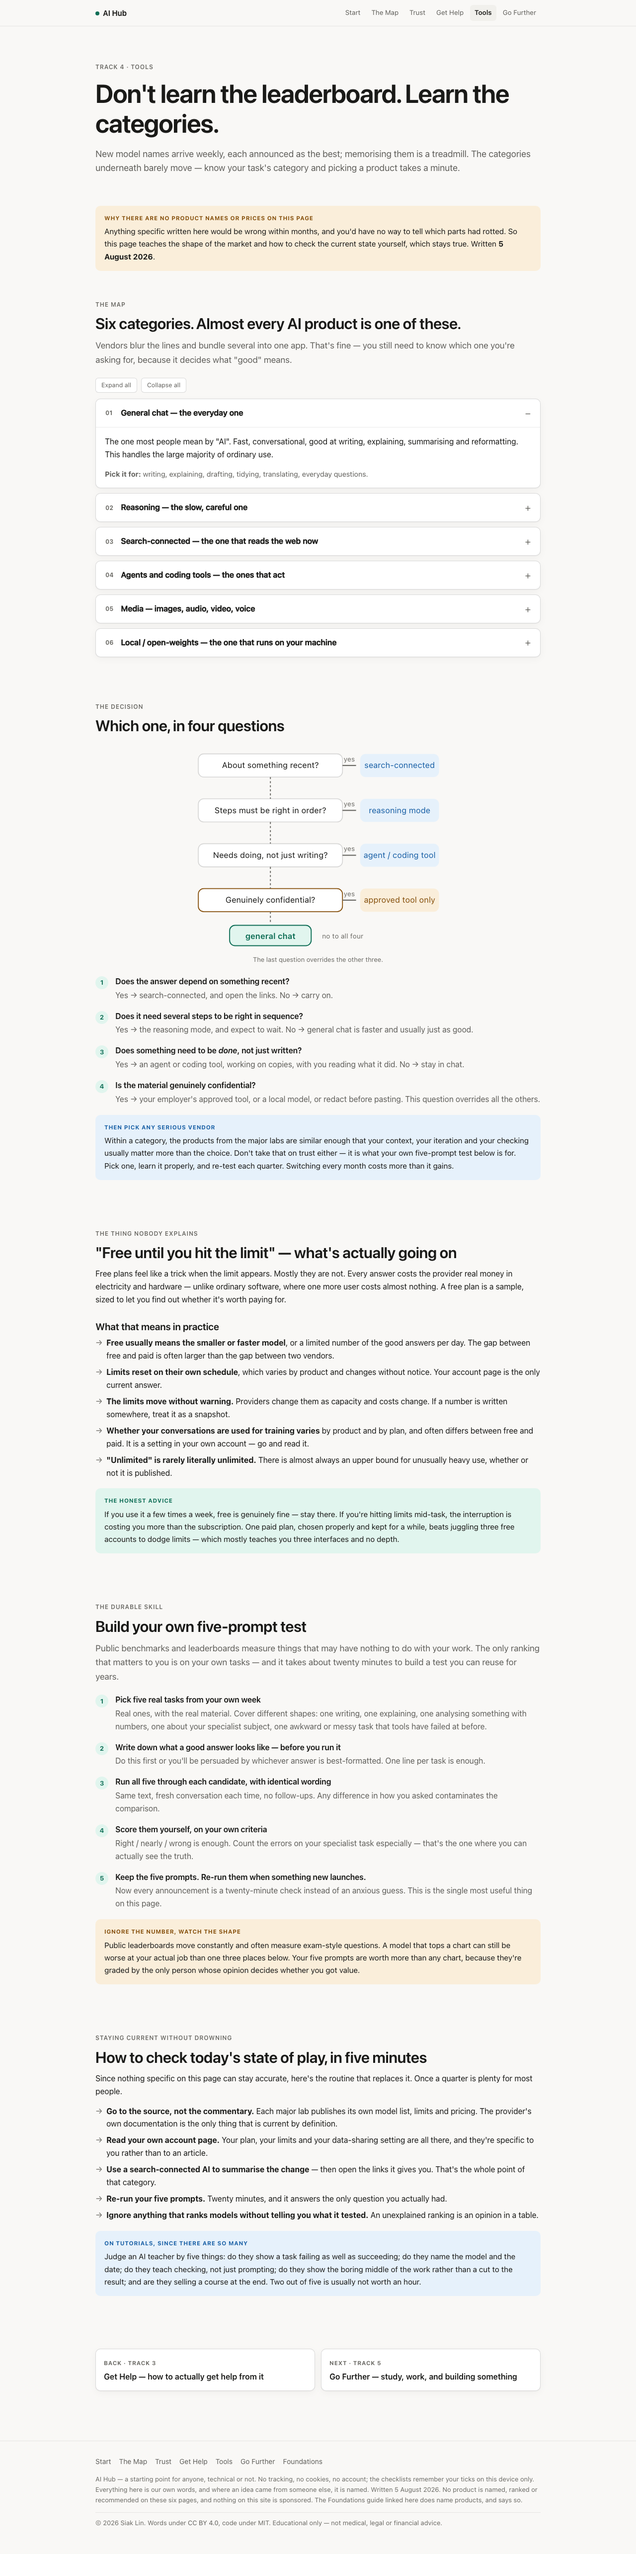
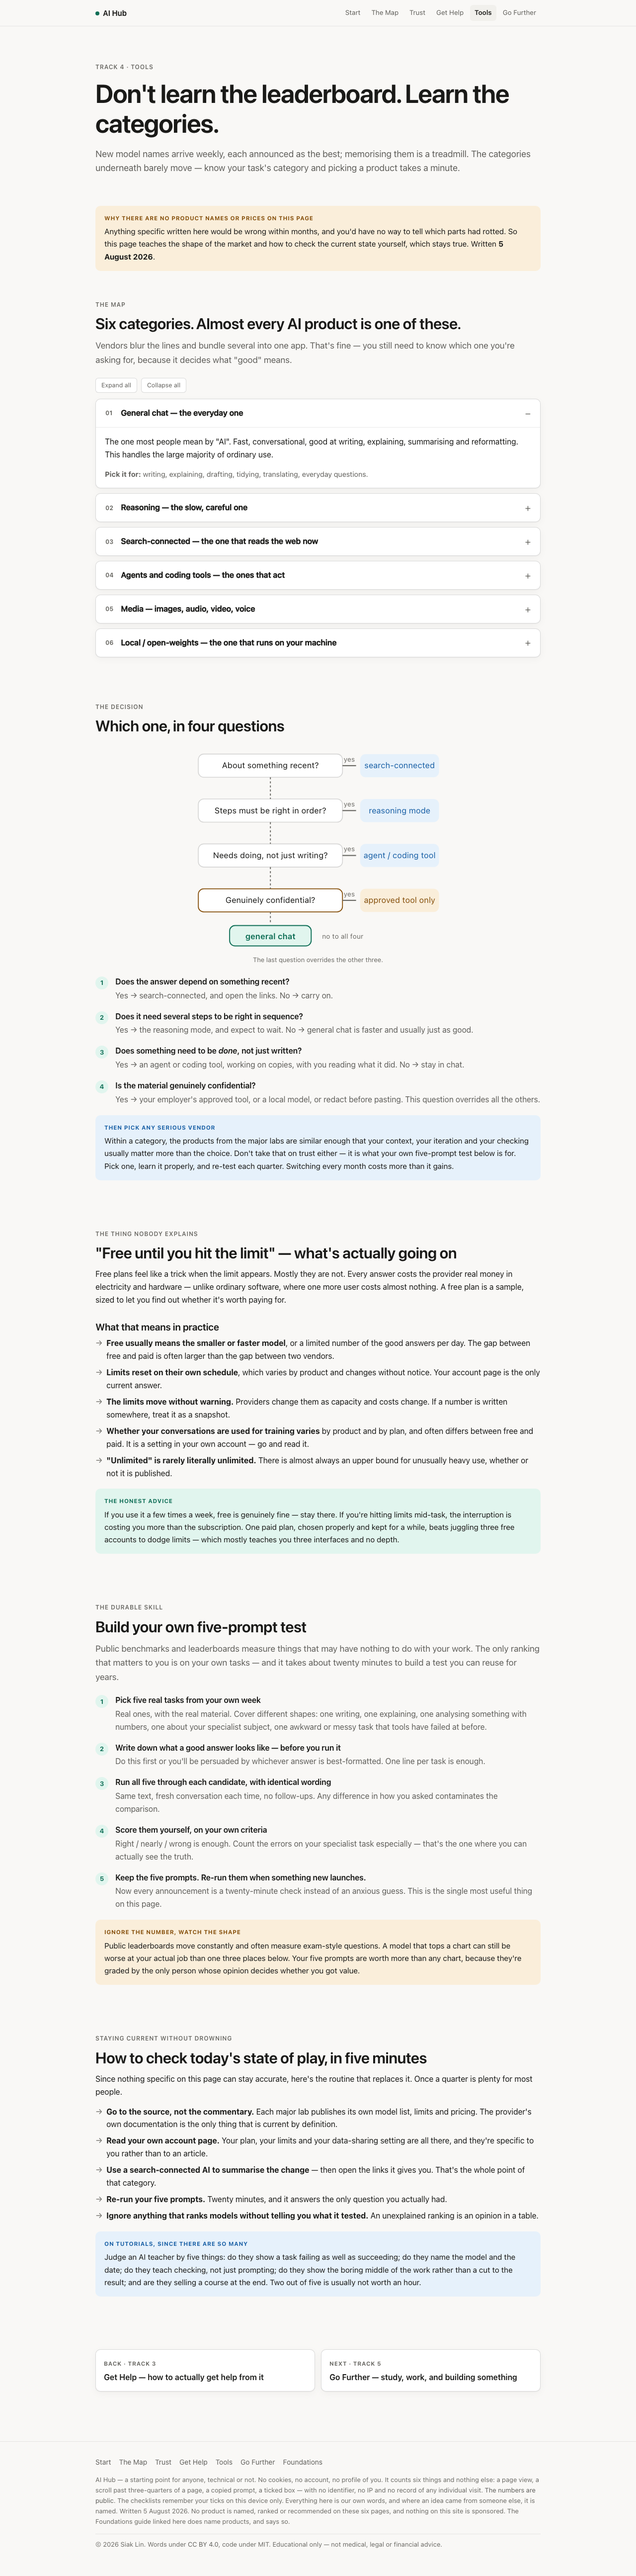
Count six things, and say so
The site had no feedback loop at all — no way to tell "good page nobody
found" from "found it, stopped at screen three", which was the largest
unknown left after the reading panel.

WHAT IS COUNTED, and nothing else: a page view, a scroll past 75% of a
page, a copied prompt, a ticked box. Per page for the first two, so the
question the panel could only guess at — do people reach the later
sections? — now has an answer. No cookie, no identifier, no IP, no
referrer, no per-visitor record; the server increments integers in a day
bucket. Public at /.netlify/functions/tally?site=hub.

ONE FUNCTION, TWO SITES. Rather than copy Baseline's tally.mjs (a second
copy would drift, and the drift would sit exactly where a counter
silently stops counting), the host function now carries per-site
allowlists and separate blob stores. A beacon with no `s` is baseline, so
every existing /baseline beacon is byte-for-byte unchanged. Adversarially
tested against the real handler: legacy beacon recorded, hub beacon
recorded under its own store, a hub event without `s` ignored, a baseline
event sent as hub ignored, a script tag as an event name ignored,
cross-origin POST ignored, PUT 405.

THE CLAIM HAD TO CHANGE. The footer said "No tracking, no cookies, no
account". Two of three are still true, but a page that counts views and
keeps that sentence is doing the exact thing the Trust page warns readers
about. It now names every event, scopes the claim to what is STORED, and
[…]

diff --git a/assets/app.js b/assets/app.js
@@ -123,8 +123,75 @@
      — the localStorage access is the realistic candidate, e.g. Safari private
      browsing — escaped init() and silently killed every copy button on the
      page. One broken feature must not take the others down. */
+  /* ---- aggregate usage counting ------------------------------
+     WHY: the site had no feedback loop at all, so there was no way to tell
+     "good page nobody found" from "found it, stopped at screen three" — the
+     single biggest unknown after a five-persona reading panel.
+
+     WHAT IS SENT: one of the names below, and nothing else. No cookie, no
+     identifier, no IP, no referrer, no timestamp finer than the server's day
+     bucket, no per-visitor record of any kind. The server increments an
+     integer. Every number is public at
+     /.netlify/functions/tally?site=hub — a page about verification should
+     show its own workings.
+
+     GATED: only on hlur.ai. Opened from a file, a fork, or a mirror it stays
+     silent. Fails soft, always: a counter must never break the page. */
+  var TALLY = ['load', 'deep', 'copy', 'check'];
+
+  function tally(name) {
+    try {
+      if (location.hostname !== 'hlur.ai') return;
+      if (TALLY.indexOf(String(name).split(':').pop()) === -1) return;
+      var body = JSON.stringify({ e: name, s: 'hub' });
+      var url = '/.netlify/functions/tally';
+      if (navigator.sendBeacon) {
+        navigator.sendBeacon(url, new Blob([body], { type: 'application/json' }));
+      } else {
+        fetch(url, { method: 'POST', body: body, keepalive: true }).catch(function () {});
+      }
+    } catch (e) { /* never let counting break anything */ }
+  }
+
+  /* page slug from the URL, reduced the same way the nav highlight is, so a
+     host serving pretty URLs does not produce a second set of event names */
+  function pageSlug() { return slugOf(location.pathname); }
+
+  function wireTally() {
+    tally(pageSlug() + ':load');
+
+    /* "deep" = the reader got past 75% of the page. This is the number that
+       answers the question the panel could only guess at: do people reach the
+       later sections? Fires at most once. */
+    var deepSent = false;
+    var onScroll = function () {
+      if (deepSent) return;
+      var doc = document.documentElement;
+      var seen = window.scrollY + window.innerHeight;
+      if (doc.scrollHeight > 0 && seen / doc.scrollHeight >= 0.75) {
+        deepSent = true;
+        tally(pageSlug() + ':deep');
+        window.removeEventListener('scroll', onScroll);
+      }
+    };
+    window.addEventListener('scroll', onScroll, { passive: true });
+    onScroll();
+
+    document.querySelectorAll('.copy-btn').forEach(function (b) {
+      b.addEventListener('click', function () { tally('copy'); });
+    });
+    var ticked = false;
+    document.querySelectorAll('.checklist input[type=checkbox]').forEach(function (box) {
+      box.addEventListener('change', function () {
+        if (ticked || !box.checked) return;
+        ticked = true;                 // one per page load, not one per box
+        tally('check');
+      });
+    });
+  }
+
   function init() {
-    var steps = [markCurrent, wireAccTools, wireChecklists, wireCopy];
+    var steps = [markCurrent, wireAccTools, wireChecklists, wireCopy, wireTally];
     for (var i = 0; i < steps.length; i++) {
       try { steps[i](); } catch (e) { if (window.console) console.error('AI Hub: ' + steps[i].name + ' failed', e); }
     }

diff --git a/verify.js b/verify.js
@@ -171,6 +171,25 @@ for (const p of PAGES) {
     }
     if (href.startsWith('mailto:')) continue;
 
+    /* Server endpoints are routes, not files on disk — but exempting them
+       blindly would let a link to a function that does not exist ship. The
+       function lives in the host repo, so verify it there when that checkout
+       is present, and SKIP LOUDLY when it is not (the CI case). */
+    if (href.startsWith('/.netlify/functions/')) {
+      const fn = href.replace('/.netlify/functions/', '').split('?')[0];
+      const hostFn = path.join(ROOT, '..', 'LLC', 'Hlur_Website', 'netlify', 'functions');
+      if (!fs.existsSync(hostFn)) {
+        if (!global.__fnSkipNoted) {
+          global.__fnSkipNoted = true;
+          console.log(`  SKIP  server endpoint /${fn} — host repo not checked out here (expected in CI)`);
+        }
+      } else {
+        const found = fs.readdirSync(hostFn).some((f) => f.replace(/\.(mjs|js|ts)$/, '') === fn);
+        check(found, `${p}: links /.netlify/functions/${fn}, which does not exist in the host repo`);
+      }
+      continue;
+    }
+
     const [file, frag] = href.split('#');
     const target = file || p;
     if (file) {
@@ -441,6 +460,40 @@ head('Public-release requirements');
     'thoughts.rtf is still tracked by git — it would publish');
   check(/\.claude\//.test(read('.gitignore')), '.gitignore does not exclude .claude/ (it holds absolute local paths)');
   console.log('  licence present, private notes untracked, README clean');
+}
+
+/* ---------- 11c. counting must stay disclosed and honest --------- */
+head('Usage counting');
+{
+  const hasTally = /function tally\(/.test(JS);
+  if (!hasTally) {
+    checks++;
+    console.log('  no tally() in app.js — nothing to disclose');
+  } else {
+    /* A counter plus a "no tracking" claim is the exact shape of the dishonesty
+       this site warns readers about. If the code counts, the footer says so. */
+    for (const p of PAGES) {
+      check(!/No tracking, no cookies/.test(SRC[p]),
+        `${p}: still claims "No tracking" while app.js counts page views`);
+      check(/counts six things and nothing else/.test(SRC[p]),
+        `${p}: app.js counts, but this page does not disclose what is counted`);
+      check(/tally\?site=hub/.test(SRC[p]),
+        `${p}: the disclosure does not link the public numbers`);
+    }
+    // every event the code can send must be named in the disclosure
+    const named = ['page view', 'scroll', 'copied prompt', 'ticked box'];
+    for (const n of named) {
+      check(SRC['index.html'].includes(n),
+        `the disclosure does not mention "${n}" — it must name every event tally() can send`);
+    }
+    // and the code must stay gated + allowlisted
+    check(/location\.hostname !== 'hlur\.ai'/.test(JS),
+      'app.js: tally is not host-gated — a fork or a local file would phone home');
+    check(/TALLY\.indexOf/.test(JS), 'app.js: tally does not check its own allowlist');
+    check(/catch \(e\) \{ \/\* never let counting break anything \*\/ \}/.test(JS),
+      'app.js: tally is not wrapped to fail soft');
+    console.log('  counting is disclosed, event-named, host-gated and fail-soft');
+  }
 }
 
 /* ---------- 12. repo-wide leak sweep ----------------------------- */

diff --git a/site.config.js b/site.config.js
@@ -151,6 +151,11 @@ module.exports = {
   /* One canonical legal line on every page. The old footer said "no tracking,
      no cookies" — literally true, but the checklists DO use localStorage, and a
      technically-true claim that looks like a dodge is worse than a fuller one. */
-  footerNote: 'AI Hub — a starting point for anyone, technical or not. No tracking, no cookies, no account; the checklists remember your ticks on this device only. Everything here is our own words, and where an idea came from someone else, it is named.',
+  /* The old line said "No tracking, no cookies, no account". Two of three are
+     still true, but the page now counts page views and three anonymous
+     actions, so the absolute claim had to go rather than be quietly stretched.
+     The claim is scoped to what is STORED, names every event, and links the
+     public numbers — the same standard the Trust page asks of everyone else. */
+  footerNote: 'AI Hub — a starting point for anyone, technical or not. No cookies, no account, no profile of you. It counts six things and nothing else: a page view, a scroll past three-quarters of a page, a copied prompt, a ticked box — with no identifier, no IP and no record of any individual visit. <a href="/.netlify/functions/tally?site=hub">The numbers are public</a>. The checklists remember your ticks on this device only. Everything here is our own words, and where an idea came from someone else, it is named.',
   legal: '&copy; 2026 Siak Lin. Words under <a href="https://creativecommons.org/licenses/by/4.0/">CC BY 4.0</a>, code under MIT. Educational only — not medical, legal or financial advice.',
 };

diff --git a/map.html b/map.html
@@ -465,7 +465,7 @@
       <a href="https://hlur.ai/baseline">Foundations</a>
     </div>
     <p class="tiny">
-      AI Hub — a starting point for anyone, technical or not. No tracking, no cookies, no account; the checklists remember your ticks on this device only. Everything here is our own words, and where an idea came from someone else, it is named. Written 5 August 2026. The term "jagged technological frontier" is from Dell'Acqua et al., Harvard Business School working paper 24-013 (2023), a field experiment run with BCG consultants — the idea is theirs, the words on this page are ours.
+      AI Hub — a starting point for anyone, technical or not. No cookies, no account, no profile of you. It counts six things and nothing else: a page view, a scroll past three-quarters of a page, a copied prompt, a ticked box — with no identifier, no IP and no record of any individual visit. <a href="/.netlify/functions/tally?site=hub">The numbers are public</a>. The checklists remember your ticks on this device only. Everything here is our own words, and where an idea came from someone else, it is named. Written 5 August 2026. The term "jagged technological frontier" is from Dell'Acqua et al., Harvard Business School working paper 24-013 (2023), a field experiment run with BCG consultants — the idea is theirs, the words on this page are ours.
     </p>
     <p class="tiny legal">&copy; 2026 Siak Lin. Words under <a href="https://creativecommons.org/licenses/by/4.0/">CC BY 4.0</a>, code under MIT. Educational only — not medical, legal or financial advice.</p>
   </div>

diff --git a/tools.html b/tools.html
@@ -346,7 +346,7 @@
       <a href="https://hlur.ai/baseline">Foundations</a>
     </div>
     <p class="tiny">
-      AI Hub — a starting point for anyone, technical or not. No tracking, no cookies, no account; the checklists remember your ticks on this device only. Everything here is our own words, and where an idea came from someone else, it is named. Written 5 August 2026. No product is named, ranked or recommended on these six pages, and nothing on this site is sponsored. The Foundations guide linked here does name products, and says so.
+      AI Hub — a starting point for anyone, technical or not. No cookies, no account, no profile of you. It counts six things and nothing else: a page view, a scroll past three-quarters of a page, a copied prompt, a ticked box — with no identifier, no IP and no record of any individual visit. <a href="/.netlify/functions/tally?site=hub">The numbers are public</a>. The checklists remember your ticks on this device only. Everything here is our own words, and where an idea came from someone else, it is named. Written 5 August 2026. No product is named, ranked or recommended on these six pages, and nothing on this site is sponsored. The Foundations guide linked here does name products, and says so.
     </p>
     <p class="tiny legal">&copy; 2026 Siak Lin. Words under <a href="https://creativecommons.org/licenses/by/4.0/">CC BY 4.0</a>, code under MIT. Educational only — not medical, legal or financial advice.</p>
   </div>

diff --git a/further.html b/further.html
@@ -441,7 +441,7 @@
       <a href="https://hlur.ai/baseline">Foundations</a>
     </div>
     <p class="tiny">
-      AI Hub — a starting point for anyone, technical or not. No tracking, no cookies, no account; the checklists remember your ticks on this device only. Everything here is our own words, and where an idea came from someone else, it is named. Written 5 August 2026. The career and startup sections are judgement, not prediction — treat them the way this site tells you to treat everything else.
+      AI Hub — a starting point for anyone, technical or not. No cookies, no account, no profile of you. It counts six things and nothing else: a page view, a scroll past three-quarters of a page, a copied prompt, a ticked box — with no identifier, no IP and no record of any individual visit. <a href="/.netlify/functions/tally?site=hub">The numbers are public</a>. The checklists remember your ticks on this device only. Everything here is our own words, and where an idea came from someone else, it is named. Written 5 August 2026. The career and startup sections are judgement, not prediction — treat them the way this site tells you to treat everything else.
     </p>
     <p class="tiny legal">&copy; 2026 Siak Lin. Words under <a href="https://creativecommons.org/licenses/by/4.0/">CC BY 4.0</a>, code under MIT. Educational only — not medical, legal or financial advice.</p>
   </div>

diff --git a/trust.html b/trust.html
@@ -444,7 +444,7 @@ List every factual claim in it separately, and for each one say: how could I ver
       <a href="https://hlur.ai/baseline">Foundations</a>
     </div>
     <p class="tiny">
-      AI Hub — a starting point for anyone, technical or not. No tracking, no cookies, no account; the checklists remember your ticks on this device only. Everything here is our own words, and where an idea came from someone else, it is named. Written 5 August 2026. Nothing on this page is medical, legal or financial advice.
+      AI Hub — a starting point for anyone, technical or not. No cookies, no account, no profile of you. It counts six things and nothing else: a page view, a scroll past three-quarters of a page, a copied prompt, a ticked box — with no identifier, no IP and no record of any individual visit. <a href="/.netlify/functions/tally?site=hub">The numbers are public</a>. The checklists remember your ticks on this device only. Everything here is our own words, and where an idea came from someone else, it is named. Written 5 August 2026. Nothing on this page is medical, legal or financial advice.
     </p>
     <p class="tiny legal">&copy; 2026 Siak Lin. Words under <a href="https://creativecommons.org/licenses/by/4.0/">CC BY 4.0</a>, code under MIT. Educational only — not medical, legal or financial advice.</p>
   </div>

diff --git a/leverage.html b/leverage.html
@@ -415,7 +415,7 @@ End with an open offer to hear objections.</div>
       <a href="https://hlur.ai/baseline">Foundations</a>
     </div>
     <p class="tiny">
-      AI Hub — a starting point for anyone, technical or not. No tracking, no cookies, no account; the checklists remember your ticks on this device only. Everything here is our own words, and where an idea came from someone else, it is named. Written 5 August 2026. Every prompt on this page is ours to copy freely.
+      AI Hub — a starting point for anyone, technical or not. No cookies, no account, no profile of you. It counts six things and nothing else: a page view, a scroll past three-quarters of a page, a copied prompt, a ticked box — with no identifier, no IP and no record of any individual visit. <a href="/.netlify/functions/tally?site=hub">The numbers are public</a>. The checklists remember your ticks on this device only. Everything here is our own words, and where an idea came from someone else, it is named. Written 5 August 2026. Every prompt on this page is ours to copy freely.
     </p>
     <p class="tiny legal">&copy; 2026 Siak Lin. Words under <a href="https://creativecommons.org/licenses/by/4.0/">CC BY 4.0</a>, code under MIT. Educational only — not medical, legal or financial advice.</p>
   </div>

diff --git a/index.html b/index.html
@@ -317,7 +317,7 @@
       <a href="https://hlur.ai/baseline">Foundations</a>
     </div>
     <p class="tiny">
-      AI Hub — a starting point for anyone, technical or not. No tracking, no cookies, no account; the checklists remember your ticks on this device only. Everything here is our own words, and where an idea came from someone else, it is named. Written 5 August 2026.
+      AI Hub — a starting point for anyone, technical or not. No cookies, no account, no profile of you. It counts six things and nothing else: a page view, a scroll past three-quarters of a page, a copied prompt, a ticked box — with no identifier, no IP and no record of any individual visit. <a href="/.netlify/functions/tally?site=hub">The numbers are public</a>. The checklists remember your ticks on this device only. Everything here is our own words, and where an idea came from someone else, it is named. Written 5 August 2026.
     </p>
     <p class="tiny legal">&copy; 2026 Siak Lin. Words under <a href="https://creativecommons.org/licenses/by/4.0/">CC BY 4.0</a>, code under MIT. Educational only — not medical, legal or financial advice.</p>
   </div>

diff --git a/assets/style.css b/assets/style.css
@@ -407,7 +407,11 @@ tbody tr:last-child td { border-bottom: 0; }
 /* Grow the licence link's hit area without moving the text. At 13px it was a
    16px-tall tap target, which is mean on a phone and meaner on a site aimed
    at older readers. Negative margin cancels the layout effect of the padding. */
-.foot .legal a { padding: 5px 3px; margin: -5px -3px; }
+/* Every inline footer link, not just the licence one. The disclosure link
+   added with the usage counter landed at 16px — the same 20px-target failure
+   the licence link had, caught by the same guard. Scoped to .foot so prose
+   links elsewhere keep their natural line box. */
+.foot p a { padding: 5px 3px; margin: -5px -3px; }
 
 /* ---------- mobile (MUST stay last: equal specificity, source order wins) ---------- */
 
